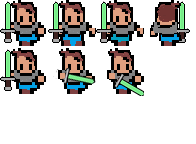
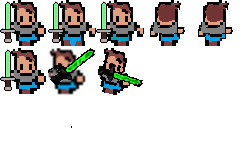
Game: Begin basic attack animatiom semantics

diff --git a/src/Game.cpp b/src/Game.cpp
@@ -64,6 +64,9 @@ constexpr int MAPS[MAP_SIZE][4][4] = {
     L1, MAP0, R1, E, C2, E, R1, C3, E
 };
 
+uint64_t frame_count = 0;
+uint64_t current_ticks = 0;
+
 const bool Game::IsColliding(const int x, const int y) {
     uint8_t _map_idx = map_idx;
 
@@ -546,25 +549,32 @@ void Game::RenderCurrentScene() {
                 }
             }
         } else if (_common->isPlayerSpriteTexture(tag)) {
-            // LOG_INFO("Player tag: %u", tag);
+            if (_attack_animation.runtime == 0) {
+                _attack_animation.active = false;
+                _attack_animation.x = PLAYER_BEGIN_X;
+                dst_rect.x = PLAYER_BEGIN_X;
+                dst_rect.y = PLAYER_BEGIN_Y;
+            }
+
             if (_player_state == player_state_t::MOVING) {
+                src_rect.y = 0;
                 if (_player_direction == player_direction_t::UP) {
-                    src_rect.x = PLAYER_WIDTH * 3;
+                    src_rect.x = current_ticks % 2 == 0 ? PLAYER_WIDTH * 3 : PLAYER_WIDTH * 4;
                 } else {
                     src_rect.x = src_rect.x == 0 ? PLAYER_WIDTH * 2 : 0;
                 }
-                src_rect.y = 0;
                 current_scene->texture_src_rects[i] = src_rect;
             } else if (_player_state == player_state_t::STOPPED) {
                 src_rect.x = PLAYER_WIDTH;
                 src_rect.y = 0;
-            } else if (_player_state == player_state_t::ATTACK) {
-                src_rect.x = PLAYER_WIDTH;
+            }  else if (_attack_animation.active) {
+                _attack_animation.runtime -= 1;
+                src_rect.x = _attack_animation.runtime >= 8 ? PLAYER_WIDTH : PLAYER_WIDTH * 2;
                 src_rect.y = PLAYER_HEIGHT;
+                if (_attack_animation.runtime % 4 == 0)  _attack_animation.x += 1;
+                dst_rect.x = _attack_animation.x;
             }
 
-            dst_rect.x = PLAYER_BEGIN_X;
-            dst_rect.y = PLAYER_BEGIN_Y;
             SDL_RenderCopy(_renderer, texture, &src_rect, &dst_rect);
        }
    }
@@ -604,6 +614,7 @@ void handleSpaceKey(std::shared_ptr<Common>& common, std::unique_ptr<Game>& game
     if (!game->AfterMainMenu()) common->AllocateScene(true);
     else {
         game->SetPlayerState(player_state_t::ATTACK);
+        game->SetAttackAnimation(16, true);
     }
 }
 
@@ -657,8 +668,7 @@ void handleRightKey(std::unique_ptr<Game>& game) {
     game->UpdateMap();
 }
 
-uint64_t frame_count = 0;
-uint64_t current_ticks = 0;
+
 
 int main() {
     std::shared_ptr<Common> common_ptr = std::make_shared<Common>(std::move(std::string("Forged Memories")));

diff --git a/include/Game.h b/include/Game.h
@@ -24,6 +24,12 @@ enum player_direction_t {
 
 #define STEP_SIZE 5
 
+struct attack_animation_t {
+    uint8_t runtime;
+    bool active;
+    uint16_t x;
+};
+
 class Game {
 public:
     Game(std::shared_ptr<Common> common_ptr);
@@ -33,6 +39,12 @@ public:
     const int32_t GetPlayerY() { return _player_y; };
     void SetPlayerX(const int32_t x) { _player_x = x; };
     void SetPlayerState(const player_state_t state) { _player_state = state; };
+    void SetAttackAnimation(const uint8_t runtime, const bool active) {
+        if (_attack_animation.runtime > 0) return;
+        _attack_animation.runtime = runtime;
+        _attack_animation.active = active;
+        _attack_animation.x = GetPlayerX();
+    };
     void SetPlayerDirection(const player_direction_t direction) { _player_direction = direction; };
     const int32_t GetPlayerX() { return _player_x; };
     const bool AfterMainMenu();
@@ -59,6 +71,7 @@ private:
     const uint32_t PLAYER_BEGIN_Y = SCREEN_HEIGHT/2 - PLAYER_HEIGHT/2;
     int32_t _player_x = PLAYER_BEGIN_X;
     int32_t _player_y = PLAYER_BEGIN_Y;
+    attack_animation_t _attack_animation;
     std::shared_ptr<Common> _common;
     uint8_t _fps = 0;
 };

diff --git a/include/Map.h b/include/Map.h
@@ -1,0 +1,7 @@
+#define MAP0_METADATA 256,128
+#define MAP0 {\
+    {0,1,-1,-1},\
+    {-1,-1,-1,-1},\
+    {-1,-1,-1,-1},\
+    {-1,-1,-1,-1}\
+}
